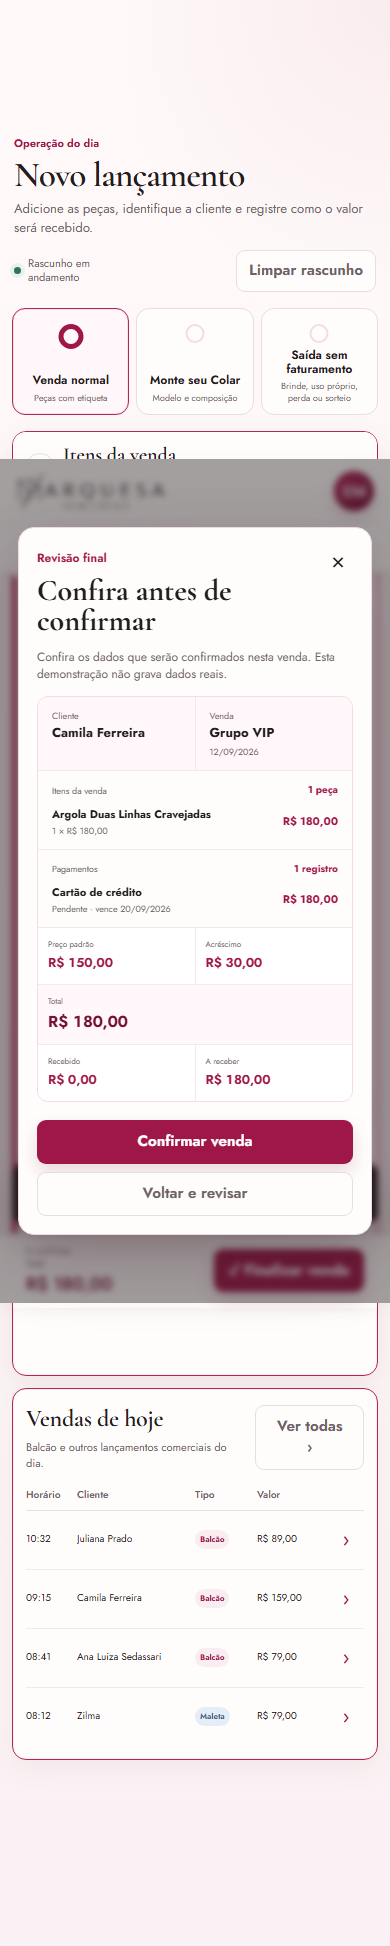
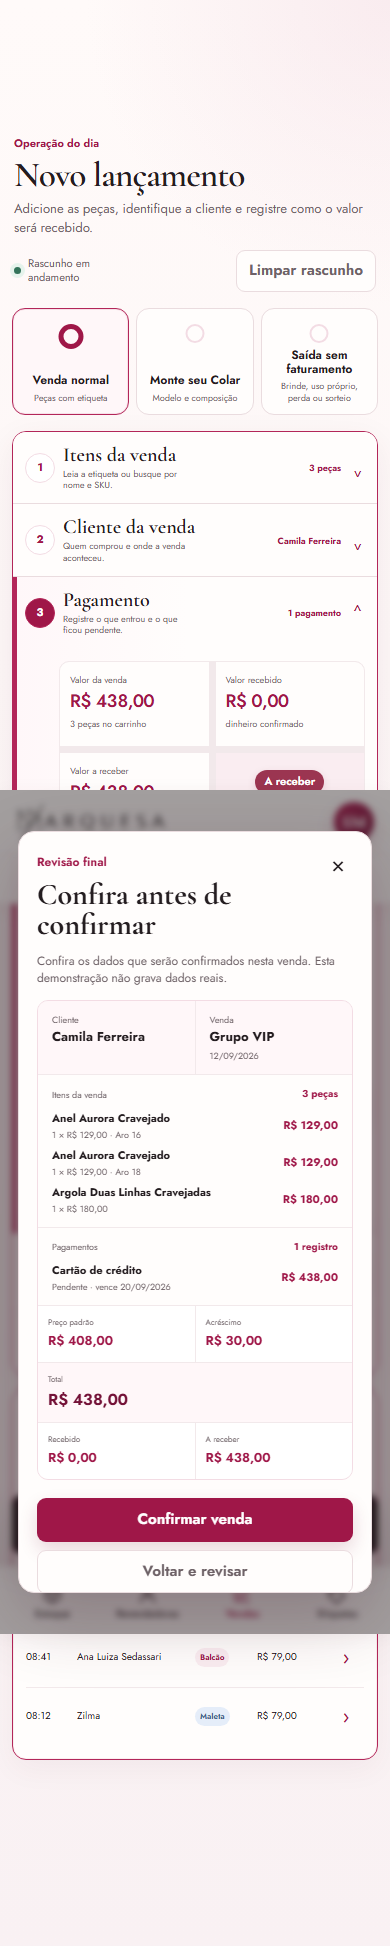
feat(ux): VEN-001 escolhe variacao na venda

Changed region(s): [[0.0, 0.2158, 1.0, 0.8633], [0.8, 0.7091, 0.8615, 0.74], [0.7077, 0.7091, 0.7692, 0.74]]

diff --git a/docs/ux/03-screens/vendas/master.html b/docs/ux/03-screens/vendas/master.html
@@ -336,6 +336,8 @@
               </tbody></table></div>
           </section>
 
+          <dialog class="launch-dialog variation-dialog" id="variation-dialog"><form method="dialog"><button class="dialog-close" value="cancel" aria-label="Fechar variações">×</button><p class="context">Peça com variações</p><h2>Qual variação saiu?</h2><p>A etiqueta identifica o produto. Agora escolha a peça exata para baixar o estoque correto.</p><div class="variation-product"><span class="jewel" aria-hidden="true" data-variation-symbol>○</span><span><b data-variation-product></b><small data-variation-meta></small></span></div><div class="variation-options" role="list" data-variation-options></div><p class="variation-footnote">A opção sem estoque continua visível, mas não pode ser selecionada.</p><div class="dialog-actions"><button class="button ghost" value="cancel">Cancelar</button></div></form></dialog>
+
           <dialog class="launch-dialog" id="price-dialog"><form method="dialog" data-price-form><button class="dialog-close" value="cancel" aria-label="Fechar">×</button><p class="context">Preço desta peça</p><h2 data-price-product>Editar preço final</h2><p>O preço padrão fica preservado. Informe quanto será cobrado nesta venda.</p><label>Preço padrão<input data-table-price-display readonly></label><label>Preço final<input type="number" min="0" step="0.01" required data-final-price></label><label>Motivo da alteração<input type="text" placeholder="Ex.: Grupo VIP" data-price-reason></label><p class="dialog-error" role="alert" data-price-error hidden>Informe o motivo quando o preço final for diferente.</p><div class="dialog-actions"><button class="button ghost" value="cancel">Cancelar</button><button class="button primary" type="submit" value="default">Aplicar preço</button></div></form></dialog>
 
           <dialog class="launch-dialog camera-dialog" id="camera-dialog"><form method="dialog"><button class="dialog-close" value="cancel" aria-label="Fechar câmera">×</button><p class="context">Leitor de etiqueta</p><h2>Aponte a câmera para o código</h2><p>A câmera traseira será ativada somente depois da sua confirmação.</p><div class="camera-preview"><video playsinline muted data-camera-video hidden></video><span class="camera-placeholder" data-camera-placeholder aria-hidden="true">▣</span><i aria-hidden="true"></i></div><p class="camera-status" role="status" data-camera-status>Câmera desligada.</p><div class="dialog-actions"><button class="button ghost" value="cancel">Fechar</button><button class="button primary" type="button" data-start-camera>Ativar câmera</button></div></form></dialog>
@@ -420,6 +422,8 @@
       const finalizeSaleButton = launchScreen.querySelector('[data-finalize-sale]');
       const productSearch = launchScreen.querySelector('[data-product-search]');
       const productResults = launchScreen.querySelector('[data-product-results]');
+      const variationDialog = launchScreen.querySelector('#variation-dialog');
+      const variationOptions = launchScreen.querySelector('[data-variation-options]');
       const priceDialog = launchScreen.querySelector('#price-dialog');
       const cameraDialog = launchScreen.querySelector('#camera-dialog');
       const cameraVideo = launchScreen.querySelector('[data-camera-video]');
@@ -434,6 +438,7 @@
       const launchToast = launchScreen.querySelector('[data-launch-toast]');
       const catalog = [
         { sku: '122060', name: 'Argola Duas Linhas Cravejadas', detail: 'Banho de Ouro 18k', price: 150, symbol: '◌' },
+        { sku: '784231', name: 'Anel Aurora Cravejado', detail: 'Banho de Ouro 18k', price: 129, symbol: '○', variantAttribute: 'Aro', variants: [{ id: '784231-16', name: '16', stock: 2 }, { id: '784231-18', name: '18', stock: 1 }, { id: '784231-20', name: '20', stock: 0 }] },
         { sku: '451109', name: 'Pulseira Medalha Salmo', detail: 'Banho de Ouro 18k', price: 200, symbol: '◇' },
         { sku: '326660', name: 'Monte seu Colar · Casal', detail: 'Composição confirmada', price: 150, symbol: '⌁' },
         { sku: '640509', name: 'Pingente Menino Verde', detail: 'Coleção Filhos', price: 49, symbol: '♢' },
@@ -446,6 +451,7 @@
         'Juliana Prado': { contact: '(19) 9 9211-1098' }
       };
       let editingCartItem = null;
+      let pendingVariantProduct = null;
       let toastTimer = null;
       let cameraStream = null;
       let cameraScanTimer = null;
@@ -610,37 +616,60 @@
         toastTimer = setTimeout(() => { launchToast.hidden = true; }, 3600);
       }
 
-      function createCartItem(product) {
+      function createCartItem(product, variant = null) {
         const item = document.createElement('li');
         item.dataset.cartItem = '';
         item.dataset.sku = product.sku;
         item.dataset.name = product.name;
+        item.dataset.variantId = variant?.id || '';
+        item.dataset.variantName = variant?.name || '';
+        item.dataset.variantAttribute = variant ? product.variantAttribute : '';
+        item.dataset.stock = variant ? String(variant.stock) : '';
         item.dataset.tablePrice = product.price;
         item.dataset.price = product.price;
         item.dataset.quantity = '1';
         item.innerHTML = `
           <span class="jewel" aria-hidden="true">${product.symbol}</span>
-          <div class="cart-product"><b>${product.name}</b><small>SKU ${product.sku} · ${product.detail}</small><small class="price-note" hidden></small></div>
+          <div class="cart-product"><b>${product.name}</b><small>SKU ${product.sku} · ${product.detail}</small>${variant ? `<span class="variant-pill">${product.variantAttribute} ${variant.name}</span>` : ''}<small class="price-note" hidden></small></div>
           <div class="quantity-control" aria-label="Quantidade de ${product.name}"><button type="button" data-quantity-action="decrease" aria-label="Diminuir quantidade">−</button><span data-item-quantity>1</span><button type="button" data-quantity-action="increase" aria-label="Aumentar quantidade">+</button></div>
           <button class="item-price" type="button" data-edit-price aria-label="Editar preço de ${product.name}"><small>Preço final</small><strong data-item-total>${launchMoney(product.price)}</strong></button>
           <button class="item-remove" type="button" data-remove-item aria-label="Remover ${product.name}">×</button>`;
         return item;
       }
 
-      function addCatalogProduct(product) {
-        const existing = launchItems().find((item) => item.dataset.sku === product.sku);
+      function addCatalogProduct(product, variant = null) {
+        const variantId = variant?.id || '';
+        const existing = launchItems().find((item) => item.dataset.sku === product.sku && item.dataset.variantId === variantId);
+        const itemName = variant ? `${product.name} · ${product.variantAttribute} ${variant.name}` : product.name;
         if (existing) {
           productSearch.value = '';
           productResults.hidden = true;
           existing.scrollIntoView({ block: 'nearest', behavior: matchMedia('(prefers-reduced-motion: reduce)').matches ? 'auto' : 'smooth' });
-          showLaunchToast(`${product.name} já está na venda. Use + para aumentar a quantidade.`);
+          showLaunchToast(`${itemName} já está na venda. Use + para aumentar a quantidade.`);
           return;
         }
-        launchCart.append(createCartItem(product));
+        launchCart.append(createCartItem(product, variant));
         productSearch.value = '';
         productResults.hidden = true;
         updateLaunch();
-        showLaunchToast(`${product.name} adicionada à venda.`);
+        showLaunchToast(`${itemName} adicionado à venda.`);
+      }
+
+      function chooseCatalogProduct(product) {
+        const variants = product.variants || [];
+        if (!variants.length) return addCatalogProduct(product);
+        if (variants.length === 1) return addCatalogProduct(product, variants[0]);
+        pendingVariantProduct = product;
+        productSearch.value = '';
+        productResults.hidden = true;
+        setLaunchText('[data-variation-product]', product.name);
+        setLaunchText('[data-variation-meta]', `SKU ${product.sku} · ${product.variantAttribute}`);
+        setLaunchText('[data-variation-symbol]', product.symbol);
+        variationOptions.innerHTML = variants.map((variant) => {
+          const unavailable = variant.stock <= 0;
+          return `<button class="variation-option" type="button" data-variant-id="${variant.id}" ${unavailable ? 'disabled' : ''}><span><b>${product.variantAttribute} ${variant.name}</b><small>${unavailable ? 'Sem estoque' : `${variant.stock} ${variant.stock === 1 ? 'disponível' : 'disponíveis'}`}</small></span><strong>${unavailable ? 'Indisponível' : 'Selecionar'}</strong></button>`;
+        }).join('');
+        variationDialog.showModal();
       }
 
       function renderProductResults() {
@@ -652,7 +681,7 @@
         }
         const matches = catalog.filter((product) => !query || product.name.toLocaleLowerCase('pt-BR').includes(query) || product.sku.includes(query)).slice(0, 4);
         productResults.innerHTML = matches.length
-          ? matches.map((product) => `<button class="product-result" type="button" data-product-sku="${product.sku}"><span><b>${product.name}</b><small>SKU ${product.sku} · ${product.detail}</small></span><strong>${launchMoney(product.price)}</strong></button>`).join('')
+          ? matches.map((product) => `<button class="product-result" type="button" data-product-sku="${product.sku}"><span><b>${product.name}</b><small>SKU ${product.sku} · ${product.detail}${product.variants?.length ? ` · ${product.variants.length} ${product.variantAttribute.toLocaleLowerCase('pt-BR')}s` : ''}</small></span><strong>${launchMoney(product.price)}</strong></button>`).join('')
           : '<div class="product-result"><span><b>Nenhuma peça encontrada</b><small>Confira o nome, SKU ou código da etiqueta.</small></span></div>';
         productResults.hidden = false;
       }
@@ -667,7 +696,7 @@
         }
         const firstResult = productResults.querySelector('[data-product-sku]');
         if (!firstResult) return renderProductResults();
-        addCatalogProduct(catalog.find((product) => product.sku === firstResult.dataset.productSku));
+        chooseCatalogProduct(catalog.find((product) => product.sku === firstResult.dataset.productSku));
       });
       productSearch.addEventListener('focus', () => {
         if (productSearch.value.trim()) renderProductResults();
@@ -677,8 +706,17 @@
       productResults.addEventListener('click', (event) => {
         const result = event.target.closest('[data-product-sku]');
         if (!result) return;
-        addCatalogProduct(catalog.find((product) => product.sku === result.dataset.productSku));
+        chooseCatalogProduct(catalog.find((product) => product.sku === result.dataset.productSku));
       });
+      variationOptions.addEventListener('click', (event) => {
+        const option = event.target.closest('[data-variant-id]');
+        if (!option || option.disabled || !pendingVariantProduct) return;
+        const product = pendingVariantProduct;
+        const variant = product.variants.find((item) => item.id === option.dataset.variantId);
+        variationDialog.close();
+        addCatalogProduct(product, variant);
+      });
+      variationDialog.addEventListener('close', () => { pendingVariantProduct = null; });
       document.addEventListener('click', (event) => {
         if (!event.target.closest('[data-product-search-form]') && !event.target.closest('[data-product-results]')) productResults.hidden = true;
       });
@@ -711,7 +749,7 @@
             if (product) {
               cameraStatus.textContent = `${product.name} identificada.`;
               cameraDialog.close();
-              addCatalogProduct(product);
+              chooseCatalogProduct(product);
               return;
             }
             cameraStatus.textContent = `Código ${rawCode} não encontrado neste protótipo.`;
@@ -766,6 +804,11 @@
         const quantityAction = event.target.closest('[data-quantity-action]');
         if (quantityAction) {
           const nextQuantity = Number(item.dataset.quantity) + (quantityAction.dataset.quantityAction === 'increase' ? 1 : -1);
+          const stock = item.dataset.stock === '' ? Infinity : Number(item.dataset.stock);
+          if (nextQuantity > stock) {
+            showLaunchToast(`${item.dataset.name} · ${item.dataset.variantAttribute} ${item.dataset.variantName}: somente ${stock} disponível.`);
+            return;
+          }
           if (nextQuantity <= 0) item.remove();
           else item.dataset.quantity = String(nextQuantity);
           updateLaunch();
@@ -935,7 +978,8 @@
         const reviewItems = launchScreen.querySelector('[data-review-items-list]');
         reviewItems.innerHTML = items.map((item) => {
           const quantity = Number(item.dataset.quantity);
-          return `<li><span><b>${item.dataset.name}</b><small>${quantity} × ${launchMoney(Number(item.dataset.price))}</small></span><strong>${launchMoney(Number(item.dataset.price) * quantity)}</strong></li>`;
+          const variant = item.dataset.variantName ? ` · ${item.dataset.variantAttribute} ${item.dataset.variantName}` : '';
+          return `<li><span><b>${item.dataset.name}</b><small>${quantity} × ${launchMoney(Number(item.dataset.price))}${variant}</small></span><strong>${launchMoney(Number(item.dataset.price) * quantity)}</strong></li>`;
         }).join('');
         const reviewPayments = launchScreen.querySelector('[data-review-payments-list]');
         reviewPayments.innerHTML = payments.length ? payments.map((entry) => {

diff --git a/docs/ux/03-screens/vendas/master.css b/docs/ux/03-screens/vendas/master.css
@@ -382,6 +382,7 @@ td strong { color: var(--wine-700); }
 .cart-list b, .cart-list small { display: block; overflow: hidden; text-overflow: ellipsis; white-space: nowrap; }
 .cart-list small { color: var(--muted); font-size: 10px; }
 .cart-list .price-note { width: max-content; max-width: 100%; margin-top: 5px; padding: 3px 7px; overflow: visible; border-radius: 999px; background: var(--rose-100); color: var(--wine-700); font-weight: 650; line-height: 1.35; text-overflow: clip; white-space: normal; }
+.variant-pill { display: inline-flex; width: max-content; max-width: 100%; margin-top: 6px; padding: 4px 8px; border: 1px solid var(--rose-200); border-radius: 999px; background: var(--rose-050); color: var(--wine-700); font-size: 10px; font-weight: 700; line-height: 1; }
 .cart-list li.has-discount { border-color: var(--rose-200); background: var(--rose-050); }
 .jewel { display: grid; width: 34px; height: 34px; place-items: center; border-radius: 8px; background: var(--rose-100); color: var(--wine-700); font-family: var(--serif); font-size: 23px; }
 .quantity-control { display: grid; grid-template-columns: 28px 25px 28px; align-items: center; text-align: center; }
@@ -508,6 +509,20 @@ td strong { color: var(--wine-700); }
 .dialog-error { padding: 8px 10px; border-radius: 7px; background: var(--warning-bg); color: var(--warning) !important; }
 .dialog-actions { display: flex; justify-content: flex-end; gap: 8px; margin-top: 5px; }
 .compact-dialog { width: min(470px, calc(100% - 28px)); }
+.variation-dialog { width: min(520px, calc(100% - 28px)); }
+.variation-product { display: flex; align-items: center; gap: 11px; padding: 11px; border: 1px solid var(--rose-200); border-radius: 11px; background: var(--rose-050); }
+.variation-product > span:last-child { min-width: 0; }
+.variation-product b, .variation-product small { display: block; overflow: hidden; text-overflow: ellipsis; white-space: nowrap; }
+.variation-product small { margin-top: 2px; color: var(--muted); font-size: 10px; }
+.variation-options { display: grid; gap: 8px; }
+.variation-option { display: grid; grid-template-columns: minmax(0, 1fr) auto; align-items: center; gap: 14px; width: 100%; min-height: 62px; padding: 10px 12px; border: 1px solid var(--line); border-radius: 10px; background: white; color: var(--ink); cursor: pointer; text-align: left; }
+.variation-option:hover, .variation-option:focus-visible { border-color: var(--wine-600); background: var(--rose-050); box-shadow: 0 0 0 3px rgba(179,38,89,.07); outline: 0; }
+.variation-option span, .variation-option b, .variation-option small { display: block; min-width: 0; }
+.variation-option small { margin-top: 3px; color: var(--muted); font-size: 10px; }
+.variation-option strong { color: var(--wine-700); font-size: 10px; }
+.variation-option:disabled { border-style: dashed; background: var(--canvas); cursor: not-allowed; opacity: .62; }
+.variation-option:disabled strong { color: var(--muted); }
+.variation-footnote { padding-top: 2px; font-size: 10px !important; }
 .camera-dialog { width: min(560px, calc(100% - 28px)); }
 .camera-preview { position: relative; display: grid; min-height: 260px; place-items: center; overflow: hidden; border-radius: 12px; background: #211b1e; }
 .camera-preview video { width: 100%; height: 300px; object-fit: cover; }
@@ -859,6 +874,9 @@ td strong { color: var(--wine-700); }
   .camera-action > span:last-child { display: none; }
   .camera-preview { min-height: 230px; }
   .camera-preview video { height: 260px; }
+  .variation-dialog { width: 100%; max-width: none; margin: auto 0 0; border-right: 0; border-bottom: 0; border-left: 0; border-radius: 18px 18px 0 0; }
+  .variation-dialog form { max-height: min(76vh, 620px); overflow-y: auto; padding-bottom: max(18px, env(safe-area-inset-bottom)); }
+  .variation-option { min-height: 66px; }
   .product-results { width: calc(100% - 26px); }
   .launch-cart li {
     grid-template-areas:

diff --git a/docs/ux/03-screens/vendas/rules.md b/docs/ux/03-screens/vendas/rules.md
@@ -62,6 +62,7 @@ limite de itens por página, o que não pode ser editado inline.
 | UX-VEN-025 | a confirmação final mostra cliente, data, local/canal, itens, pagamentos, vencimentos, observação, preço padrão, desconto/acréscimo, total, recebido e a receber | permitir conferência completa antes de registrar a venda | sim · Gustavo, 12/09/2026 |
 | UX-VEN-026 | `Local ou canal` oferece os termos já usados no sistema: Balcão, WhatsApp, Instagram, Grupo VIP, Feira, Maleta e Outro com texto livre; a distinção futura entre canal e origem estrutural continua em `VEN-Q013` | usar o vocabulário operacional existente sem fingir que a modelagem de origem já foi decidida | sim · Gustavo, 12/09/2026 |
 | UX-VEN-027 | ao abrir `Itens da venda`, a busca começa vazia e sem sugestões; produtos só aparecem depois de digitar, o leitor físico usa o mesmo campo e a câmera do celular só é ativada após toque e confirmação explícitos | evitar catálogo involuntário e reunir digitação, etiqueta e câmera numa entrada única | sim · Gustavo, 12/09/2026 |
+| UX-VEN-028 | a busca mostra uma peça com variações uma única vez; se houver mais de uma opção, digitar, bipar ou usar a câmera abre uma escolha explícita com os nomes reais e o saldo de cada variação; a variação escolhida acompanha a linha e a revisão final, e opções sem estoque não podem ser selecionadas | a etiqueta é igual entre variações e não identifica sozinha qual peça física saiu; a venda nunca escolhe por aproximação | sim · Gustavo, 12/09/2026 |
 
 ## Desconto na Nova Venda
 
